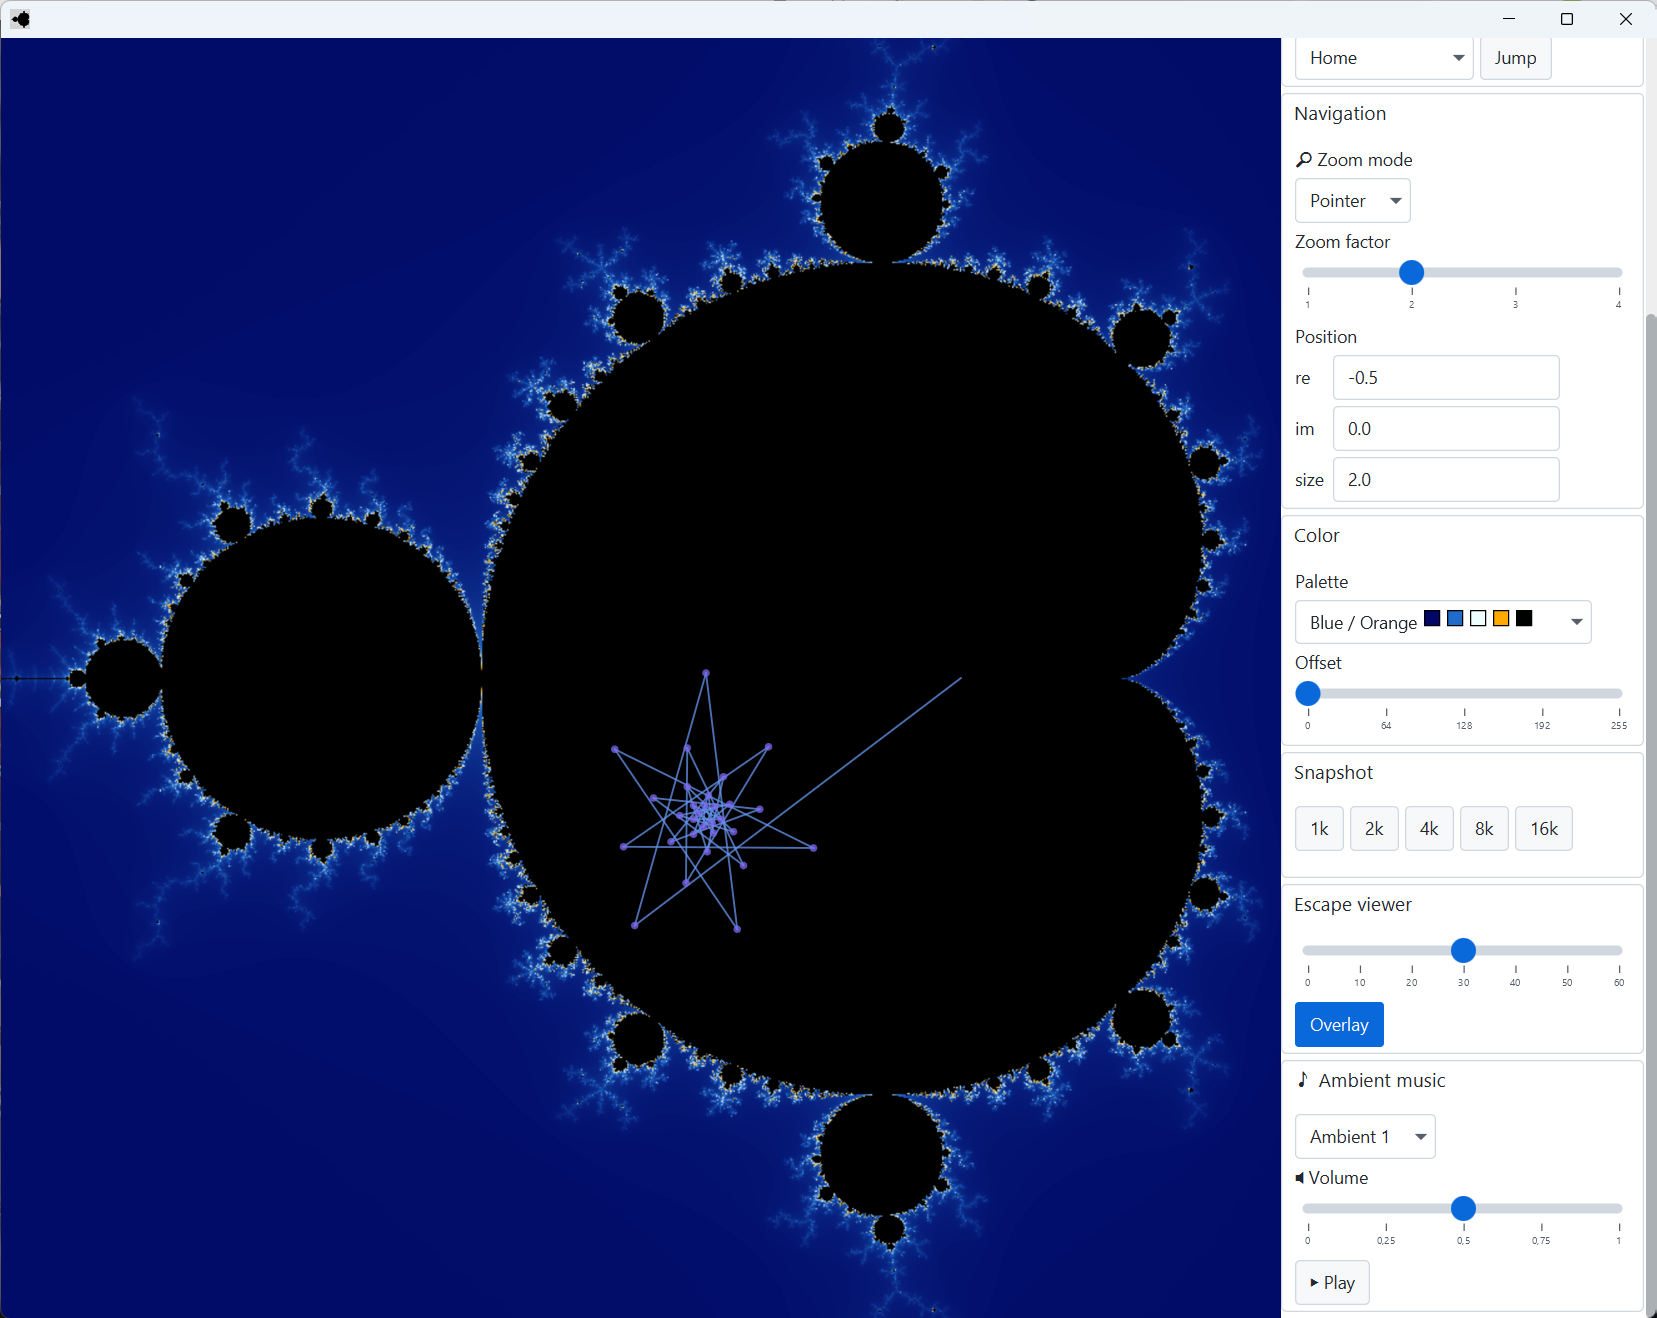
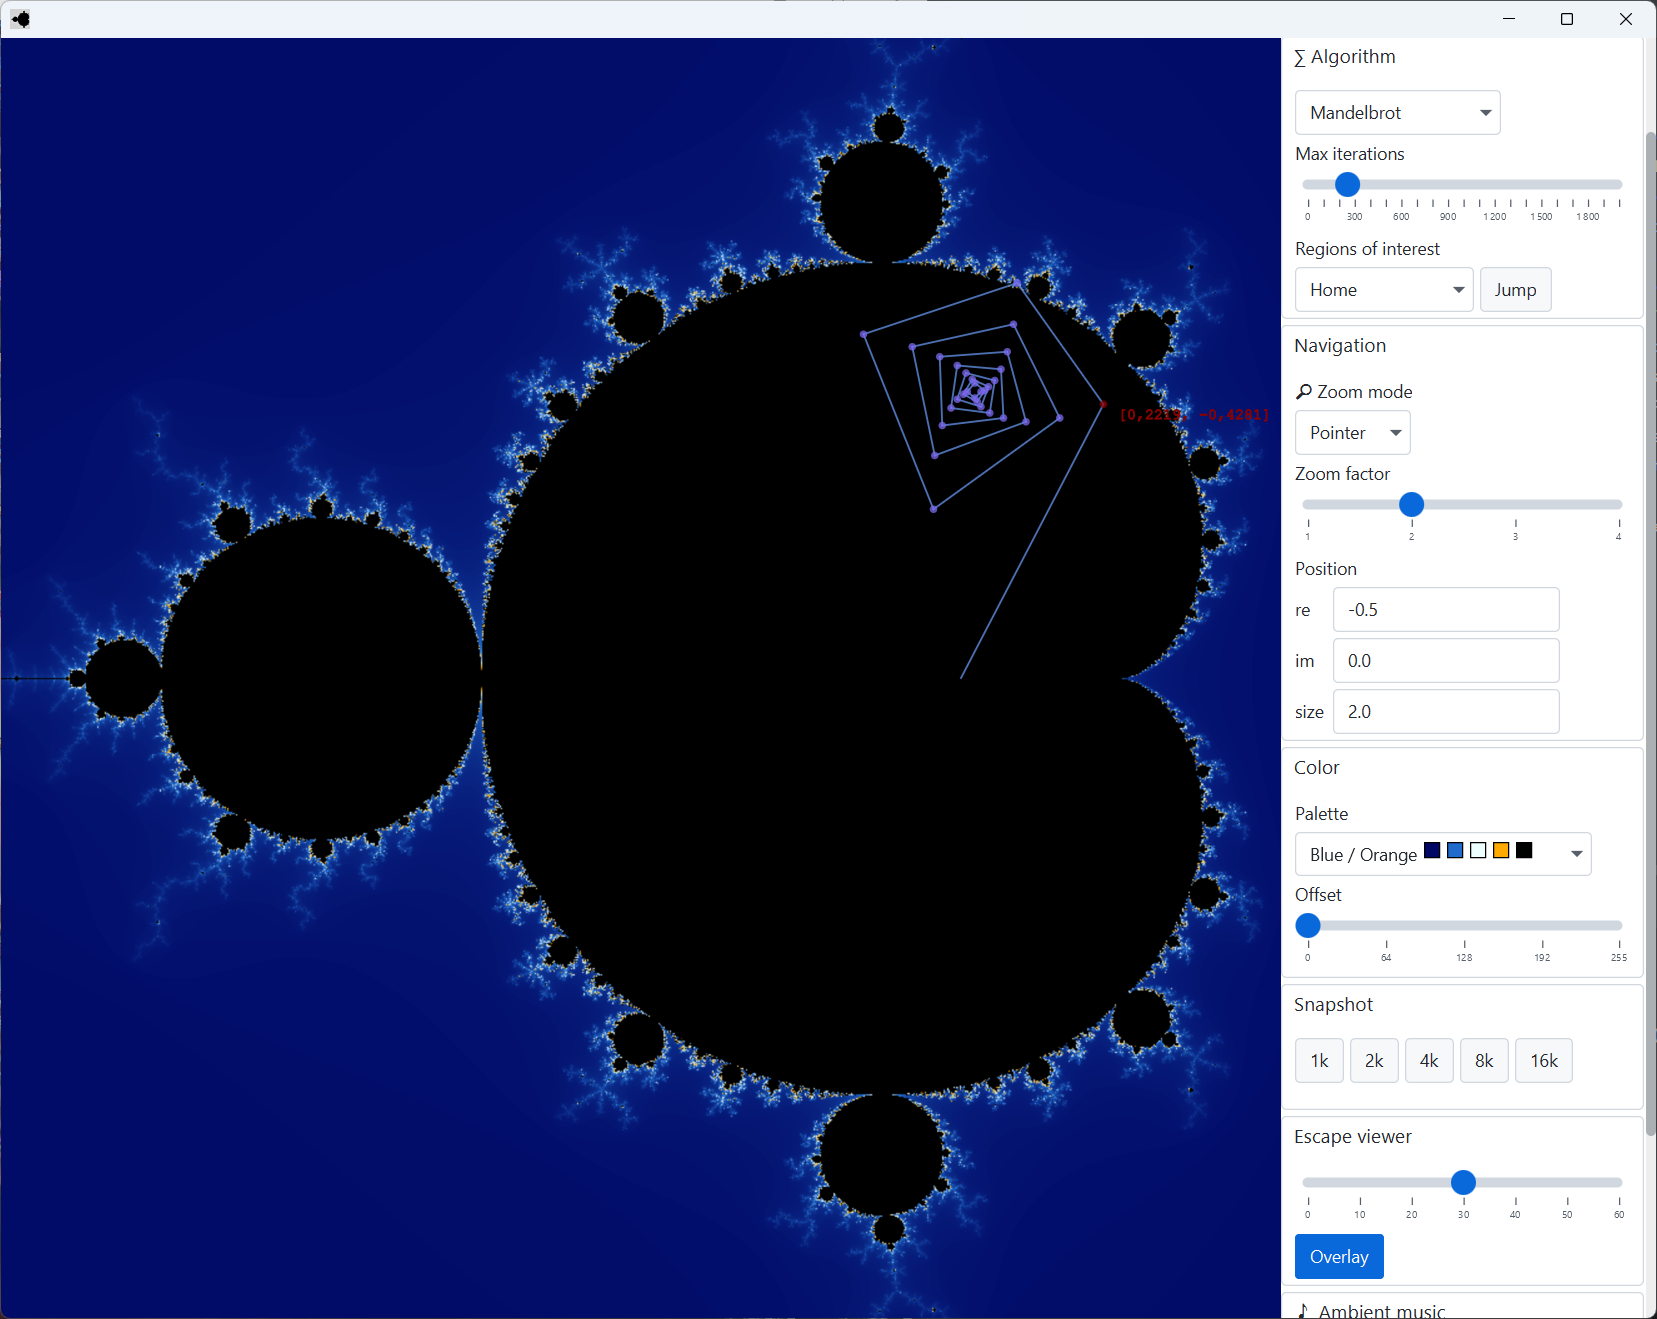
update

diff --git a/src/main/java/com/codesimcoe/mandelbrotfx/escape/EscapeViewer.java b/src/main/java/com/codesimcoe/mandelbrotfx/escape/EscapeViewer.java
@@ -6,18 +6,23 @@ import com.codesimcoe.mandelbrotfx.Viewport;
 import com.codesimcoe.mandelbrotfx.fractal.Fractal;
 import javafx.beans.property.IntegerProperty;
 import javafx.beans.property.SimpleIntegerProperty;
+import javafx.collections.ObservableList;
 import javafx.event.EventHandler;
+import javafx.scene.Node;
 import javafx.scene.input.MouseEvent;
 import javafx.scene.layout.Pane;
 import javafx.scene.paint.Color;
 import javafx.scene.shape.Circle;
 import javafx.scene.shape.Line;
+import javafx.scene.text.Font;
+import javafx.scene.text.Text;
 
 public class EscapeViewer {
 
   // The pane to attach viewer to
   private final Pane pane;
 
+  private final Text coordinatesText = new Text();
   private final Line[] escapeLines = new Line[Configuration.ESCAPE_MAX_POINTS];
   private final Circle[] escapeDots = new Circle[Configuration.ESCAPE_MAX_POINTS];
 
@@ -42,6 +47,10 @@ public class EscapeViewer {
   }
 
   private void initialize() {
+
+    this.coordinatesText.setStroke(Color.DARKRED);
+    this.coordinatesText.setFont(Font.font("Monospace", 12));
+
     for (int i = 0; i < Configuration.ESCAPE_MAX_POINTS; i++) {
 
       Line line = new Line();
@@ -57,26 +66,37 @@ public class EscapeViewer {
       this.escapeLines[i] = line;
       this.escapeDots[i] = dot;
     }
+
+    // Color first point differently
+    this.escapeDots[0].setFill(Color.DARKRED);
   }
 
   public void update(final boolean enabled) {
+    ObservableList<Node> children = this.pane.getChildren();
     if (enabled) {
-      this.pane.getChildren().addAll(this.escapeLines);
-      this.pane.getChildren().addAll(this.escapeDots);
+      children.add(this.coordinatesText);
+      children.addAll(this.escapeLines);
+      children.addAll(this.escapeDots);
 
       this.pane.addEventHandler(MouseEvent.MOUSE_MOVED, this.escapeMouseMovedHandler);
 
     } else {
-      this.pane.getChildren().removeAll(this.escapeLines);
-      this.pane.getChildren().removeAll(this.escapeDots);
+      children.remove(this.coordinatesText);
+      children.removeAll(this.escapeLines);
+      children.removeAll(this.escapeDots);
 
       this.pane.removeEventHandler(MouseEvent.MOUSE_MOVED, this.escapeMouseMovedHandler);
     }
   }
 
   private void onEscapeMouseMoved(final MouseEvent event) {
-    double cx = this.viewport.screenToRe(event.getX());
-    double cy = this.viewport.screenToIm(event.getY());
+    double re = this.viewport.screenToRe(event.getX());
+    double im = this.viewport.screenToIm(event.getY());
+
+    String text = String.format("[%.4f, %.4f]", re, im);
+    this.coordinatesText.setText(text);
+    this.coordinatesText.setX(event.getX() + 12);
+    this.coordinatesText.setY(event.getY() + 12);
 
     for (int i = 0; i < Configuration.ESCAPE_MAX_POINTS; i++) {
       this.escapeLines[i].setVisible(false);
@@ -85,9 +105,9 @@ public class EscapeViewer {
 
     int maxEscapePoints = this.escapeMaxPointsProperty.get();
 
-    Complex z = this.fractal.initialZ(cx, cy);
+    Complex z = this.fractal.initialZ(re, im);
     Complex zPrev = Complex.ZERO;
-    Complex c = this.fractal.constantC(cx, cy);
+    Complex c = this.fractal.constantC(re, im);
 
     double prevScreenX = this.viewport.complexToX(z.re());
     double prevScreenY = this.viewport.complexToY(z.im());

diff --git a/src/main/java/com/codesimcoe/mandelbrotfx/Mandelbrot.java b/src/main/java/com/codesimcoe/mandelbrotfx/Mandelbrot.java
@@ -509,14 +509,14 @@ public class Mandelbrot {
     this.regionReCenterTextField = new TextField();
     this.regionImCenterTextField = new TextField();
     this.regionSizeTextField = new TextField();
-    Label xLabel = new Label("re");
-    Label yLabel = new Label("im");
+    Label reLabel = new Label("re");
+    Label imLabel = new Label("im");
     Label sizeLabel = new Label("size");
-    xLabel.setPrefWidth(25);
-    yLabel.setPrefWidth(25);
+    reLabel.setPrefWidth(25);
+    imLabel.setPrefWidth(25);
     sizeLabel.setPrefWidth(25);
-    HBox xcBox = new HBox(GAP, xLabel, this.regionReCenterTextField);
-    HBox ycBox = new HBox(GAP, yLabel, this.regionImCenterTextField);
+    HBox xcBox = new HBox(GAP, reLabel, this.regionReCenterTextField);
+    HBox ycBox = new HBox(GAP, imLabel, this.regionImCenterTextField);
     HBox sizeBox = new HBox(GAP, sizeLabel, this.regionSizeTextField);
     xcBox.setAlignment(Pos.CENTER_LEFT);
     ycBox.setAlignment(Pos.CENTER_LEFT);
